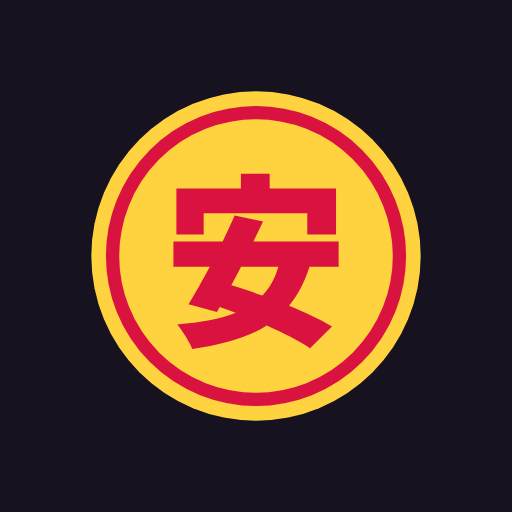
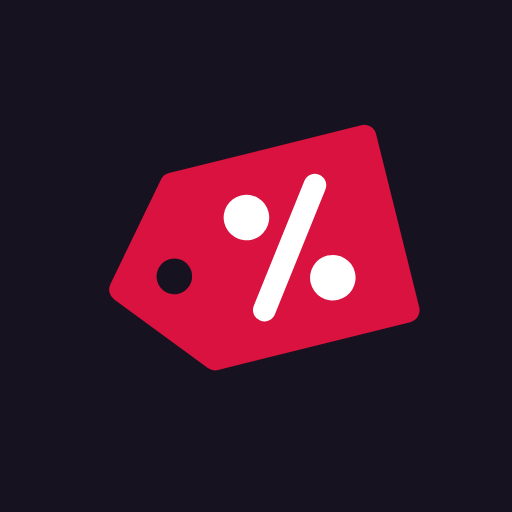
ファビコンを A（赤い値札に白い「％」）に変える（運営者の選びなおし）
Claude-Session: https://claude.ai/code/session_01NVU8p9wmSCzJuSnGXfvoK2

Changed region(s): [[0.1562, 0.1562, 0.8438, 0.8438]]

diff --git a/tests/test_ai_style.py b/tests/test_ai_style.py
@@ -109,8 +109,8 @@ hits = scan(re.compile(r"\bNEW\b|準備中|近日公開|COMING SOON|pop-(new|wai
 check("「NEW」「準備中」のような小さなバッジ・表紙の「新作」「予約」のシールが無い", not hits, hits[:5])
 
 _fav = open(os.path.join(SITE, "public", "favicon.svg"), encoding="utf-8").read()
-check("ファビコンは、色つきの角丸の四角（器）の中に絵を入れた形にしない（もの＝値引きシールの形そのもの。2026-10-23）",
-      not re.search(r"<rect[^>]*\bwidth=\"64\"[^>]*\bheight=\"64\"", _fav) and "<circle" in _fav)
+check("ファビコンは、色つきの角丸の四角（器）の中に絵を入れた形にしない（もの＝値札の形そのもの。2026-10-23）",
+      not re.search(r"<rect[^>]*\bwidth=\"64\"[^>]*\bheight=\"64\"", _fav) and "<path" in _fav)
 
 print("\n■ この点検そのもの")
 check("絵文字の検出: ✨ ✅ 🚀 は見つけ、★ ☆ ✕ ▲ ▼ は見のがす", all(EMOJI.search(c) for c in "✨✅🚀💡⚡") and not any(EMOJI.search(c) for c in "★☆✕▲▼○●"))
